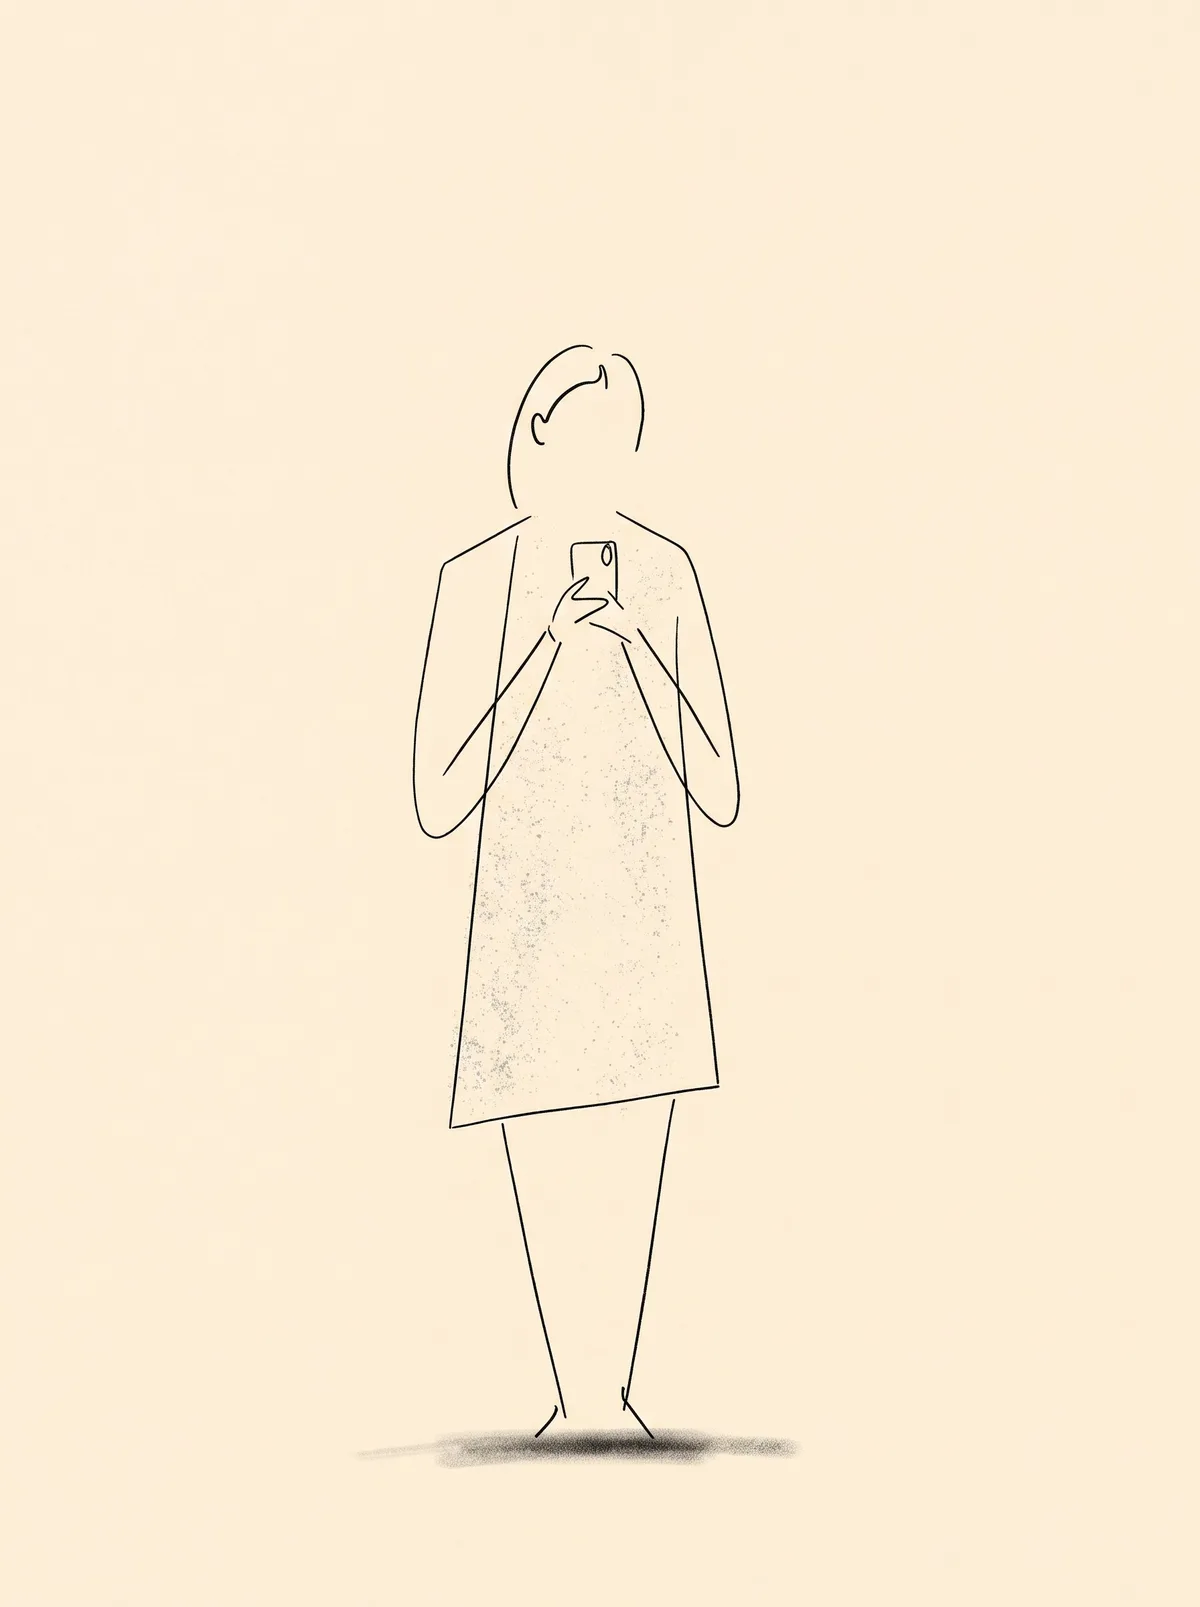
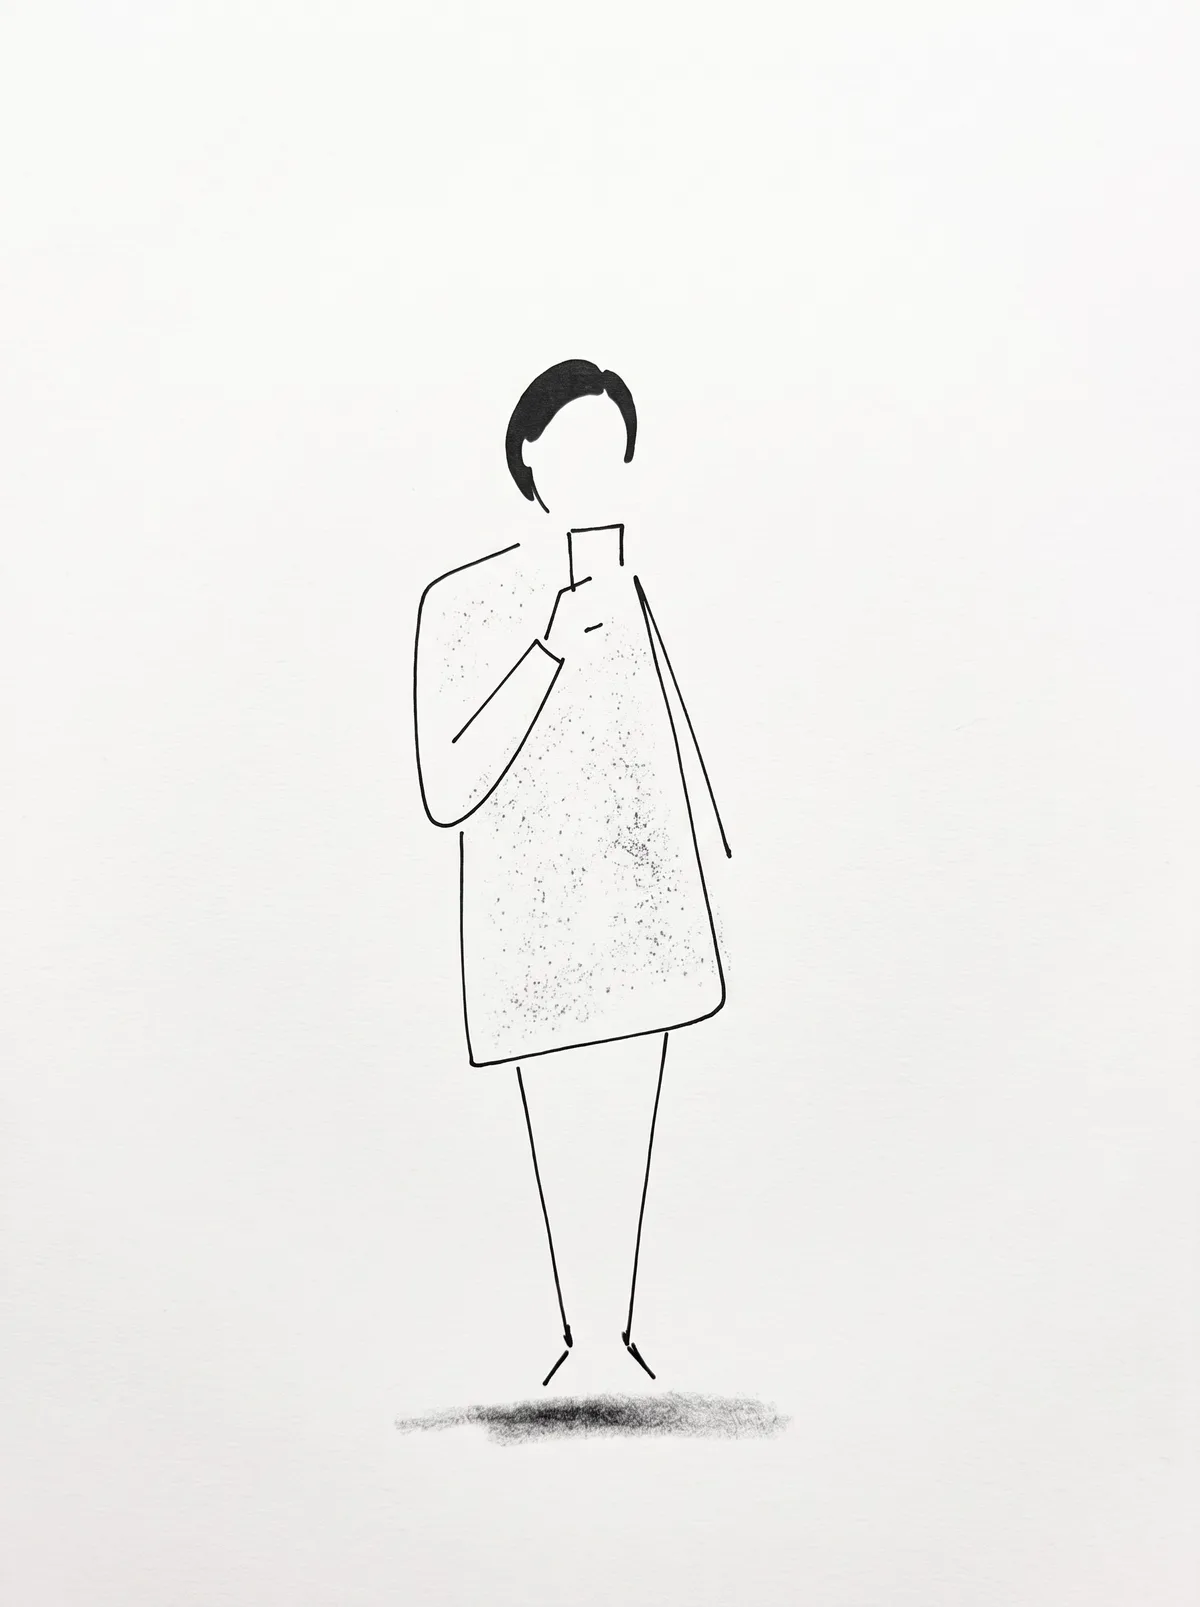
fix(concept): 1063 이름에서 화가 이름 제거(몇 줄 드로잉)·프롬프트에서도 이름 삭제, 배경 흰색; 일상(겨울) 예약분 즉시 공개; sw v196
Claude-Session: https://claude.ai/code/session_01H2YvAQhUpTna7rrNEqetDc

diff --git a/public/sw.js b/public/sw.js
@@ -10,7 +10,7 @@
 // 새 버전 배포 시: 아래 VERSION 만 올리면 됨.
 // ============================================================
 
-const VERSION = "v195";
+const VERSION = "v196";
 const STATIC_CACHE = `rimikimi-static-${VERSION}`;
 const THUMB_CACHE = `rimikimi-thumbs-${VERSION}`;
 const DATA_CACHE = `rimikimi-data-${VERSION}`;
